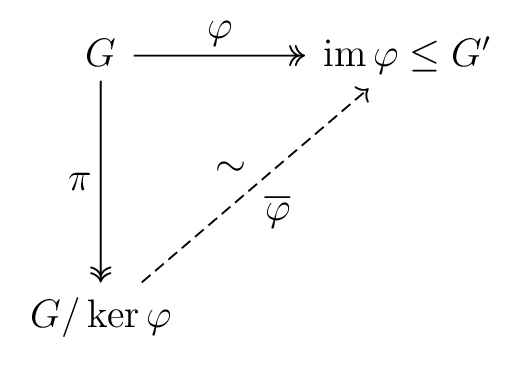
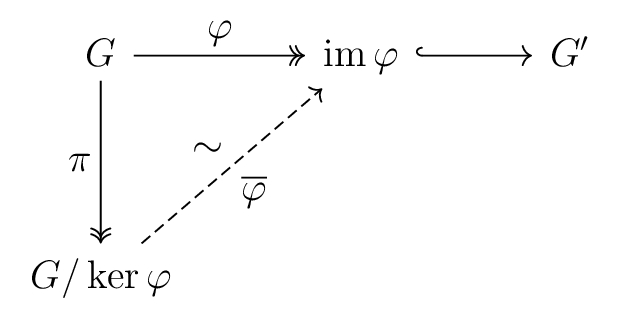
make comment `<textarea>`s also adjustable-height and remove stupidity from adjustable height code

diff --git a/app/static/js/adjust_textarea_height.js b/app/static/js/adjust_textarea_height.js
@@ -1,34 +1,17 @@
-function adjustTextareaHeight(nodeTextarea, initial) {
-    const MAX_HEIGHT = $(window).height() * 0.6;
-
-    // `scrollHeight` is real content height, `offsetHeight` is visual height that must be adjusted to `scrollheight`
-    // don't change if increasing from above MAX_HEIGHT
-    // hard to catch decreasing to above MAX_HEIGHT because scrollHeight is not updated until `height` is 0
-    // but scroll snap on deleting text is minimal since MAX_HEIGHT makes textarea be mostly on screen
-    if ((
-            nodeTextarea.offsetHeight === nodeTextarea.scrollHeight
-            || (nodeTextarea.scrollHeight > nodeTextarea.offsetHeight && nodeTextarea.offsetHeight >= MAX_HEIGHT)
-        )
-        && !initial
-    ) {
-        return;
-    }
-
-    nodeTextarea.style.height = "0";
-    // clamp size between 7rem (roughly 4 rows) and 60vh
-    let height_px = Math.max(
-        7 * parseFloat(getComputedStyle(document.documentElement).fontSize),
-        Math.min(MAX_HEIGHT, nodeTextarea.scrollHeight)
-    );
-    nodeTextarea.style.height = `${height_px + 1.5}px`; // + 1.5 to hide scrollbar
+function adjustTextareaHeight(nodeTextarea) {
+    // otherwise the next calculation won't work when decreasing, since `scrollHeight` will remain large
+    nodeTextarea.style.height = "0px";
+    // + ~1.5px needed for scrollbar to not show (below max height)
+    nodeTextarea.style.height = `${nodeTextarea.scrollHeight + 1.5}px`;
 }
 
 $(document).ready(function() {
     $("textarea").each(function() {
-        adjustTextareaHeight($(this).get(0), true);
+        adjustTextareaHeight($(this).get(0));
     });
+});
 
-    $("textarea").on("input", function(e) {
-        adjustTextareaHeight(e.target, false);
-    });
+// no `$(document).ready()` listener attachment since things may be reloaded async
+$(document).on("input", "textarea", function(e) {
+    adjustTextareaHeight(e.target);
 });

diff --git a/app/blog/static/blogpage/js/post_comments.js b/app/blog/static/blogpage/js/post_comments.js
@@ -120,7 +120,7 @@ function getCommentId(nodeForm) {
 
 // no `$(document).ready()` listener attachments for the remaining listeners since comments can be reloaded
 
-// reveals fields for adding a comment on clicking a "reply" button
+// reveals form for adding a comment on clicking a "reply" button
 $(document).on("click", ".comment__reply-btn", async function(e) {
     e.preventDefault();
 
@@ -132,6 +132,7 @@ $(document).on("click", ".comment__reply-btn", async function(e) {
     }
 
     jQFormAddReply.removeAttr("hidden");
+    e.target.setAttribute("hidden", "");
     // insert under correct parent; use `name` instead of `id` in case duplicate `id`s in comments causes issues
     jQFormAddReply.find("[name='parent']").val(id);
     if (await IS_USER_AUTHENTICATED()) {
@@ -141,7 +142,6 @@ $(document).on("click", ".comment__reply-btn", async function(e) {
     } else {
         jQFormAddReply.find("input[name='author']").first().focus();
     }
-    e.target.setAttribute("hidden", "");
 });
 
 // actually submit add comment form

diff --git a/app/static/css/variables.css b/app/static/css/variables.css
@@ -1,8 +1,10 @@
 :root {
     /* general */
+
     --container-content-max-width: min(672px, 100vw);
 
     /* custom colors */                     /* h  , s  , v   */ /* (by Google color picker rounding) */
+
     --custom-blue: #00eaff;                 /* 185, 100, 100 */
     --custom-blue-light: #80f4ff;           /* 185, 50 , 100 */
     --custom-blue-xlight: #bffaff;          /* 185, 25 , 100 */

diff --git a/app/static/css/style.css b/app/static/css/style.css
@@ -96,6 +96,12 @@ td, th {
     margin-bottom: 0;
 }
 
+textarea.form-control {
+    /* clamp textarea height between 7rem (roughly 4 rows) and 60svh */
+    min-height: 7em;
+    max-height: 60svh;
+}
+
 /* to compensate for fixed navbar; can be inaccurate on page load still with JS-based layout shifts but oh well */
 [id] {
     scroll-margin-top: var(--navbar-outer-height);
